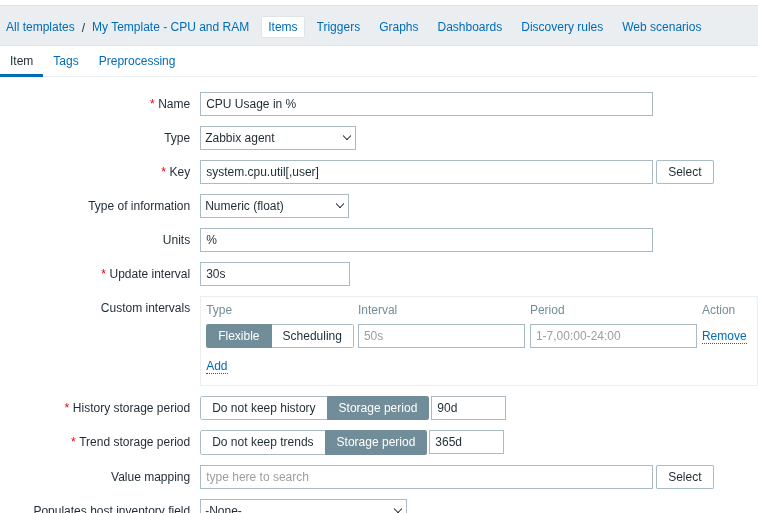
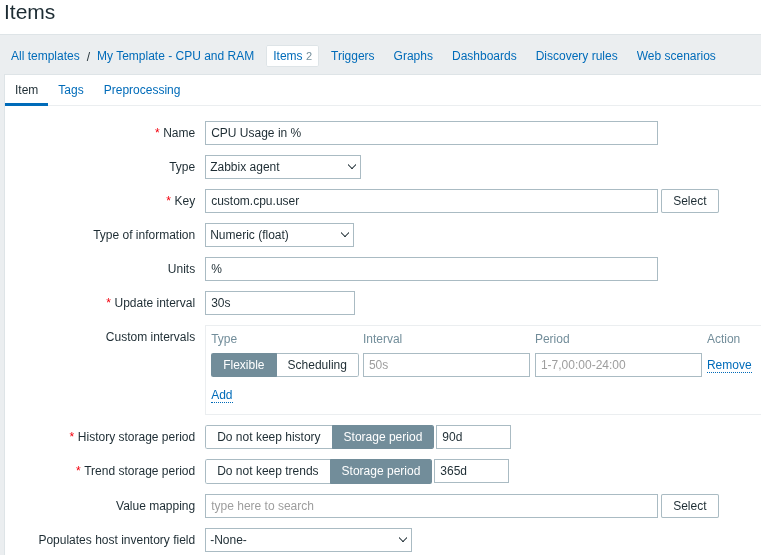
Выполнено задание 1: обновлён README.md и добавлены скриншоты

diff --git a/README.md b/README.md
@@ -20,52 +20,15 @@
 
 ---
 
-### Задание 2
+### Задание 2 и Задание 3
 
-`Приведите ответ в свободной форме........`
+Добавьте в Zabbix два хоста и задайте им имена <фамилия и инициалы-1> и <фамилия и инициалы-2>. Например: ivanovii-1 и ivanovii-2.
+Привяжите созданный шаблон к двум хостам. Также привяжите к обоим хостам шаблон Linux by Zabbix Agent.
 
-1. `Заполните здесь этапы выполнения, если требуется ....`
-2. `Заполните здесь этапы выполнения, если требуется ....`
-3. `Заполните здесь этапы выполнения, если требуется ....`
-4. `Заполните здесь этапы выполнения, если требуется ....`
-5. `Заполните здесь этапы выполнения, если требуется ....`
-6. 
-
-```
-Поле для вставки кода...
-....
-....
-....
-....
-```
-
-`При необходимости прикрепитe сюда скриншоты
-![Название скриншота 2](ссылка на скриншот 2)`
-
-
----
-
-### Задание 3
-
-`Приведите ответ в свободной форме........`
-
-1. `Заполните здесь этапы выполнения, если требуется ....`
-2. `Заполните здесь этапы выполнения, если требуется ....`
-3. `Заполните здесь этапы выполнения, если требуется ....`
-4. `Заполните здесь этапы выполнения, если требуется ....`
-5. `Заполните здесь этапы выполнения, если требуется ....`
-6. 
-
-```
-Поле для вставки кода...
-....
-....
-....
-....
-```
-
-`При необходимости прикрепитe сюда скриншоты
-![Название скриншота](ссылка на скриншот)`
+Создание 2 хостов с привязанными шаблонами:
+![Создание_item](https://github.com/ice017-git/sys-pattern-homework-new/blob/main/img/2_1_host.png)
+![Создание_item](https://github.com/ice017-git/sys-pattern-homework-new/blob/main/img/2_2_host.png)
+![Создание_item](https://github.com/ice017-git/sys-pattern-homework-new/blob/main/img/3_hosts_templates.png)
 
 ### Задание 4
 
